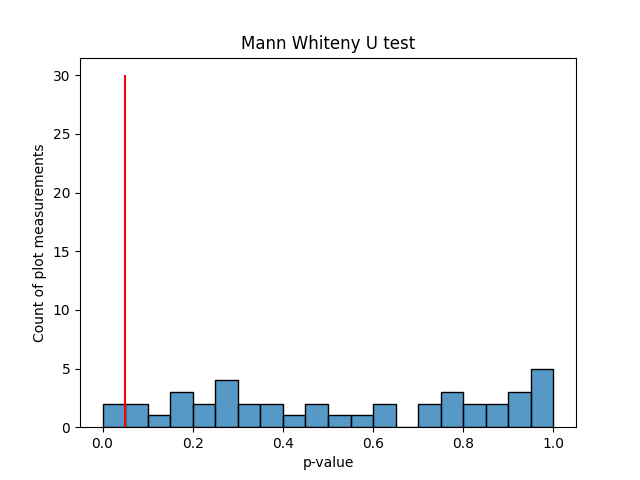
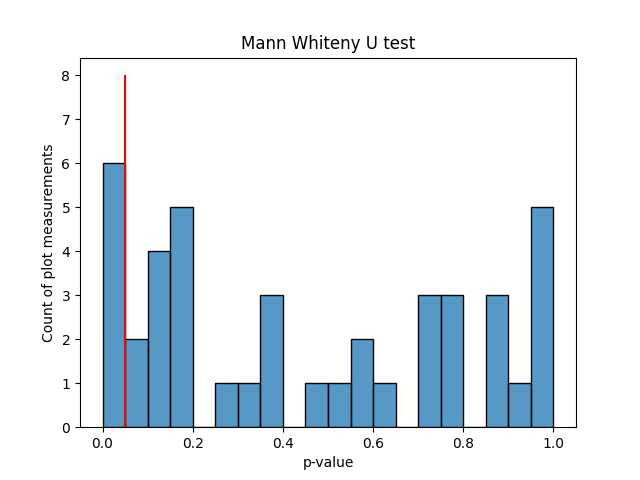
fixing ordering

diff --git a/analysis.py b/analysis.py
@@ -62,11 +62,14 @@ def read_data():
 def make_scatter_plot(data):
     for years in [["2020"], ["2021"], ["2020", "2021"]]:
 
+        ordered = list(data[data["year"].isin(years)]["soiltype"].unique())
+        ordered.sort(key=lambda x: (x[:-1], x[-1]))
         pp = sns.pairplot(
             data[data["year"].isin(years)],
             hue="soiltype",
             diag_kws={"common_norm": False},
             plot_kws={"alpha": 0.3},
+            hue_order=ordered,
         )
         pp.map_lower(sns.kdeplot, levels=[0.35], common_norm=False)
         plt.gcf().suptitle("+".join(years))
@@ -74,11 +77,18 @@ def make_scatter_plot(data):
         plt.close("all")
 
         for s_type in ["sand", "loam"]:
+            ordered = list(
+                data[(data["year"].isin(years)) & (data["soiltype"] == s_type)][
+                    "plot_id"
+                ].unique()
+            )
+            ordered.sort(key=lambda x: (x[:-1], x[-1]))
             pp = sns.pairplot(
                 data[(data["year"].isin(years)) & (data["soiltype"] == s_type)],
                 hue="plot_id",
                 diag_kws={"common_norm": False},
                 plot_kws={"alpha": 0.3},
+                hue_order=ordered,
             )
             pp.map_lower(sns.kdeplot, levels=[0.35], common_norm=False)
             plt.gcf().suptitle("+".join(years))
@@ -91,7 +101,7 @@ def make_box_plots(data):
         for years in [["2020"], ["2021"], ["2020", "2021"]]:
             for x_var in ["soiltype", "plot_id"]:
                 ordered = list(data[x_var].unique())
-                ordered.sort(key=lambda x: x[:-2])
+                ordered.sort(key=lambda x: (x[:-1], x[-1]))
                 ax = sns.boxplot(
                     x=x_var,
                     y=variable,
@@ -100,7 +110,7 @@ def make_box_plots(data):
                 )
                 ax.set_title("+".join(years))
                 plt.savefig(
-                    f"plots/{x_var}_{'_'.join(years)}_{variable.replace('/','Over')}.png"
+                    f"plots/boxplot_{x_var}_{'_'.join(years)}_{variable.replace('/','Over')}.png"
                 )
                 plt.close("all")
 
@@ -141,15 +151,19 @@ def mannwhitneyu_test(data):
             for plot in tmp_datas["plot_id"].unique():
                 for variable in ["Height", "Diameter", "Height/Diameter"]:
                     u_value, p_value = mannwhitneyu(
-                        tmp_datas[variable],
+                        tmp_datas[tmp_datas["plot_id"] != plot][variable],
                         tmp_datas[tmp_datas["plot_id"] == plot][variable],
                     )
                     p_values.append(p_value)
+                    if p_value < 0.05:
+                        print(
+                            f"p-value for {years}-{plot}-{variable} M-W-U test is below 0.05! ({p_value=:.1e})"
+                        )
     ax = sns.histplot(p_values, bins=np.linspace(0, 1, 21))
     ax.set_xlabel("p-value")
     ax.set_ylabel("Count of plot measurements")
     ax.set_title("Mann Whiteny U test")
-    plt.vlines([0.05], ymin=0, ymax=30, colors="r", label="0.05")
+    plt.vlines([0.05], ymin=0, ymax=8, colors="r", label="0.05")
     plt.savefig("plots/p_values_mann_whitney_dist.png")
     plt.close("all")
 
@@ -162,7 +176,7 @@ def mannwhitneyu_test(data):
                 tmp_data[tmp_data["year"] == "2021"][variable],
             )
             print(
-                f"Comparing between 2020 and 2021 - {s_type} - {variable} - Mann Whitney U test p_value = {p_value}"
+                f"Comparing between 2020 and 2021 - {s_type} - {variable} - Mann Whitney U test {p_value=:.1e}"
             )
 
     # checking between soiltypes
@@ -174,7 +188,7 @@ def mannwhitneyu_test(data):
                 tmp_datay[tmp_datay["soiltype"] == "sand"][variable],
             )
             print(
-                f"Comparing between sand and loam - {'+'.join(years)} - {variable} - Mann Whitney U test p_value = {p_value}"
+                f"Comparing between sand and loam - {'+'.join(years)} - {variable} - Mann Whitney U test {p_value=:.1e}"
             )
 
 
